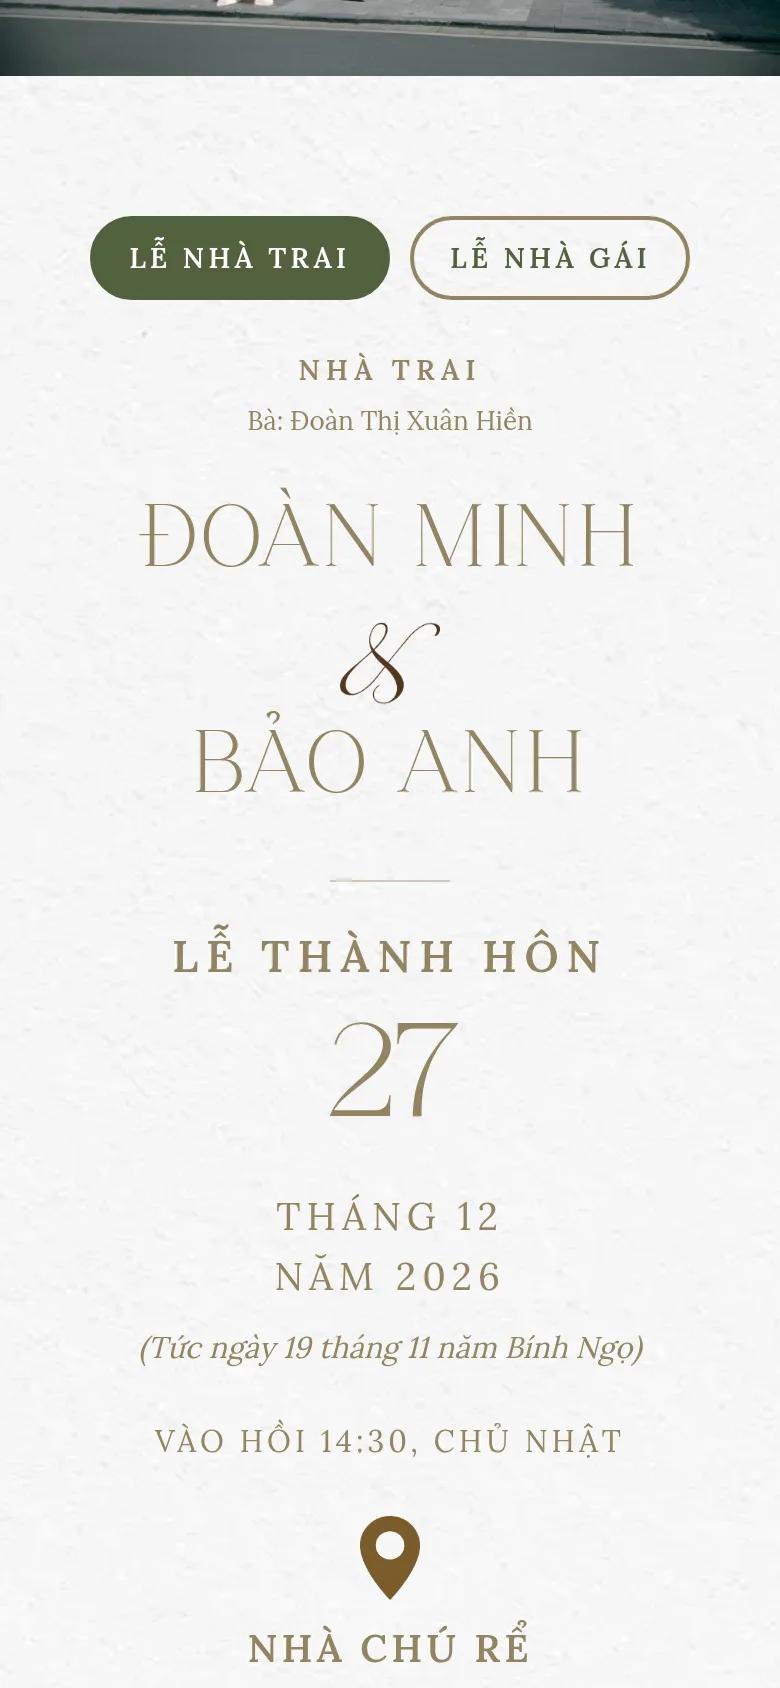
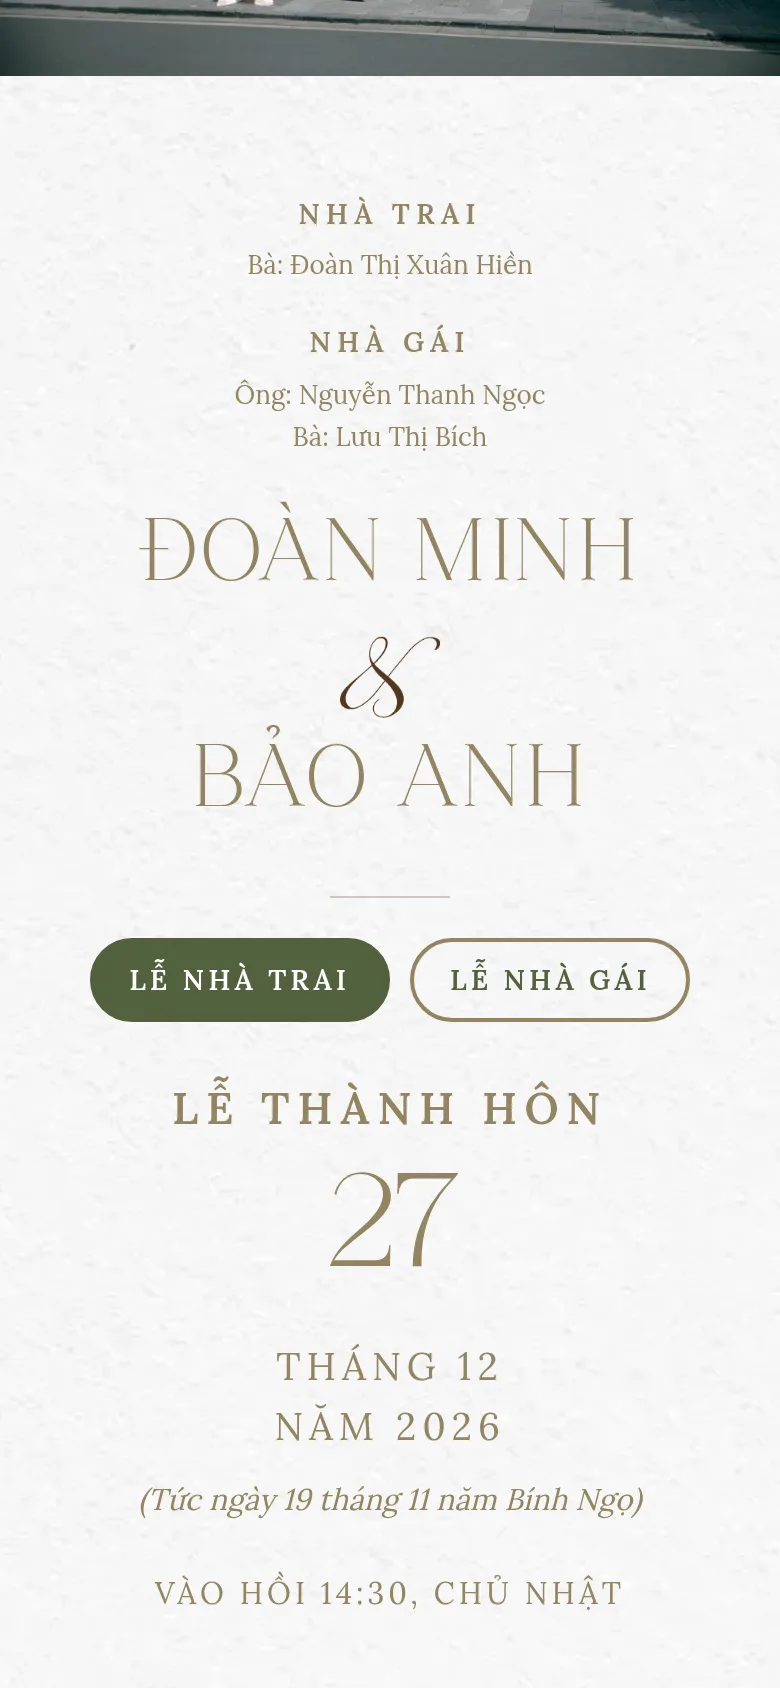
khach doan-minh-bao-anh: dua ten 2 nha + ten co dau chu re len header chung (nhu mau goc), 2 tab chi hien le + tiec tung nha, khong lap lai thong tin gia dinh

diff --git a/products/Invitation/Wedding/khach_doan-minh-bao-anh/index.html b/products/Invitation/Wedding/khach_doan-minh-bao-anh/index.html
@@ -867,6 +867,23 @@
 
     <!-- S3: Parents / Names / Date / Venue — 2 lễ: nhà trai / nhà gái -->
     <div class="section s-info">
+        <!-- Tên 2 bên gia đình + tên cô dâu chú rể (chung, như mẫu gốc) -->
+        <div class="info-parents anim">
+            <div class="info-side-label">Nhà trai</div>
+            <div class="info-side-names">Bà: Đoàn Thị Xuân Hiền</div>
+            <div class="info-side-label">Nhà gái</div>
+            <div class="info-side-names">Ông: Nguyễn Thanh Ngọc<br>Bà: Lưu Thị Bích</div>
+        </div>
+
+        <div class="info-couple anim">
+            <div class="name">Đoàn Minh</div>
+            <img class="info-and" src="../../../shared/images/wedding-elements/and-symbol.webp" alt="&">
+            <div class="name">Bảo Anh</div>
+        </div>
+
+        <div class="info-divider"></div>
+
+        <!-- 2 tab lễ: nhà trai / nhà gái -->
         <div class="ceremony-tabs anim">
             <button class="ceremony-tab active" id="tabTrai" type="button">Lễ nhà trai</button>
             <button class="ceremony-tab" id="tabGai" type="button">Lễ nhà gái</button>
@@ -874,19 +891,6 @@
 
         <!-- LỄ NHÀ TRAI -->
         <div class="ceremony-panel active" id="panelTrai">
-            <div class="info-parents anim">
-                <div class="info-side-label">Nhà trai</div>
-                <div class="info-side-names">Bà: Đoàn Thị Xuân Hiền</div>
-            </div>
-
-            <div class="info-couple anim">
-                <div class="name">Đoàn Minh</div>
-                <img class="info-and" src="../../../shared/images/wedding-elements/and-symbol.webp" alt="&">
-                <div class="name">Bảo Anh</div>
-            </div>
-
-            <div class="info-divider"></div>
-
             <!-- Lễ Thành Hôn -->
             <div class="info-ceremony-title anim">Lễ Thành Hôn</div>
 
@@ -927,19 +931,6 @@
 
         <!-- LỄ NHÀ GÁI -->
         <div class="ceremony-panel" id="panelGai">
-            <div class="info-parents anim">
-                <div class="info-side-label">Nhà gái</div>
-                <div class="info-side-names">Ông: Nguyễn Thanh Ngọc<br>Bà: Lưu Thị Bích</div>
-            </div>
-
-            <div class="info-couple anim">
-                <div class="name">Đoàn Minh</div>
-                <img class="info-and" src="../../../shared/images/wedding-elements/and-symbol.webp" alt="&">
-                <div class="name">Bảo Anh</div>
-            </div>
-
-            <div class="info-divider"></div>
-
             <!-- Lễ Vu Quy -->
             <div class="info-ceremony-title anim">Lễ Vu Quy</div>
 
